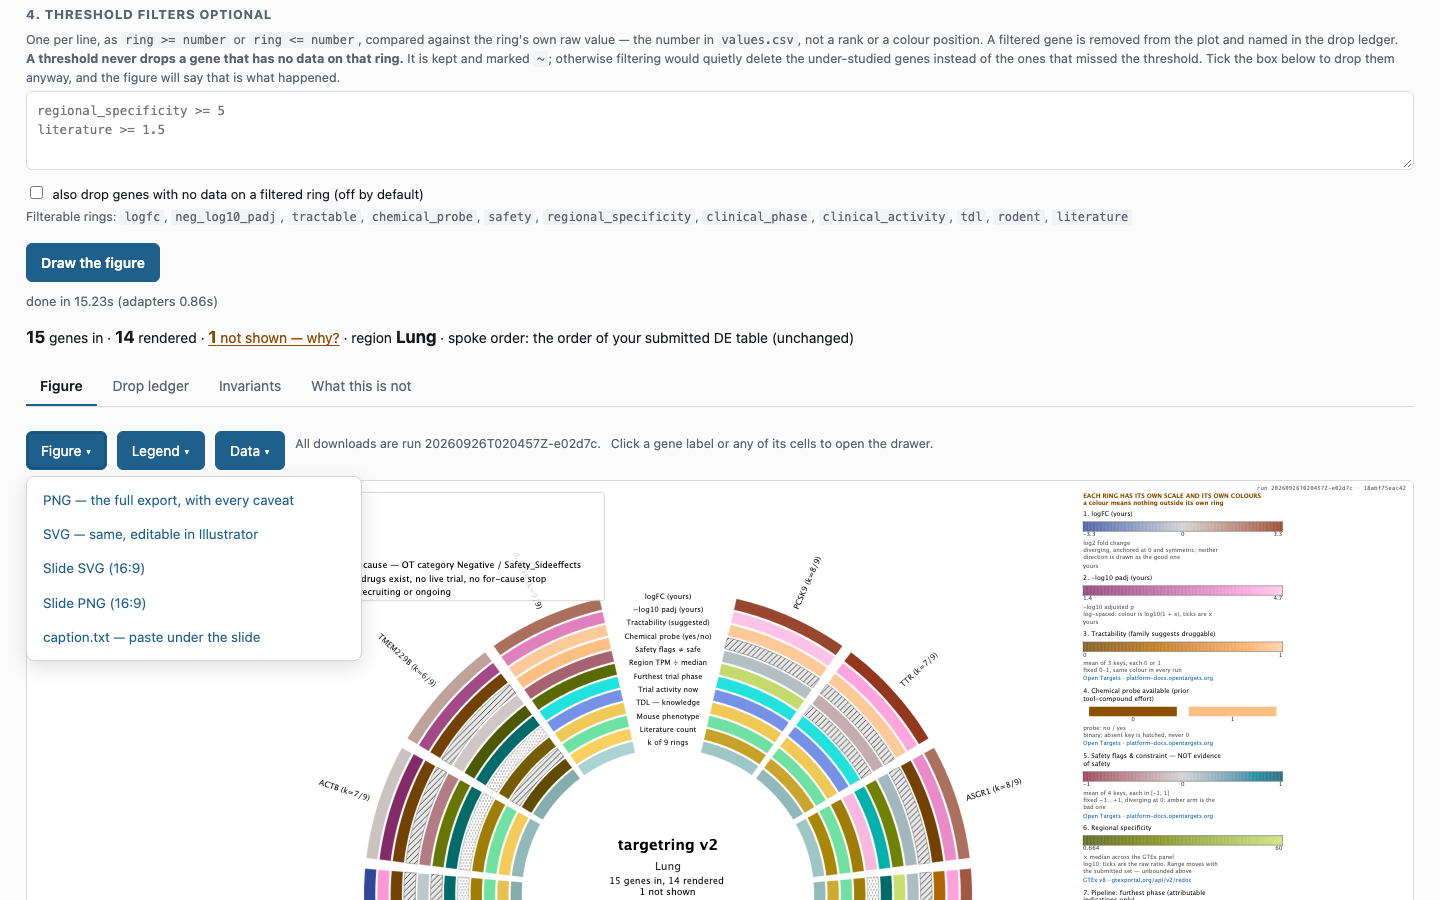
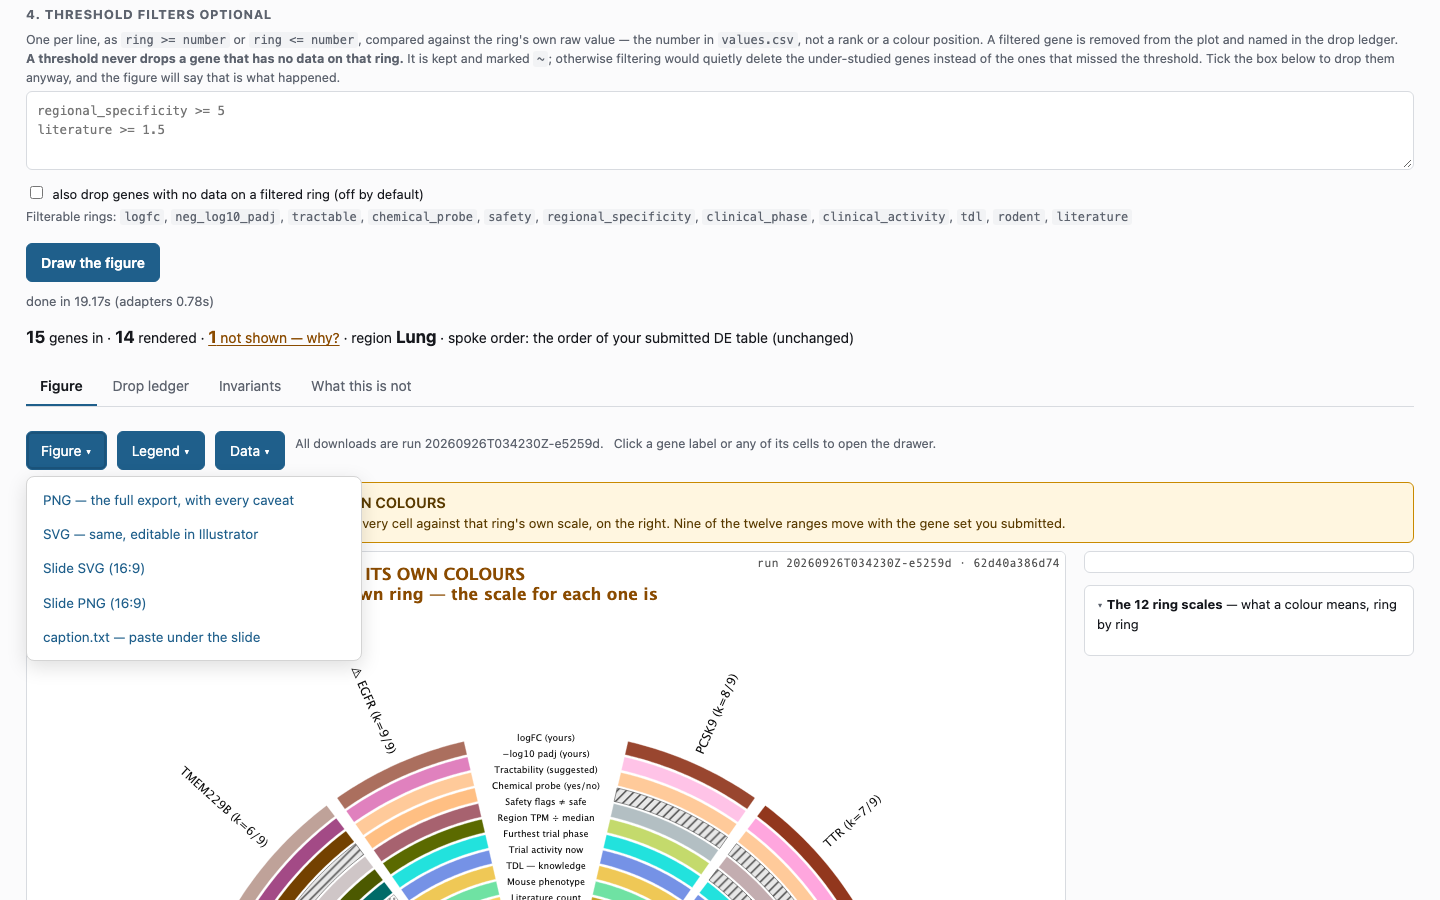
UX v3 round 1 re-review: A1 and A2 fixed and measured, A3 cannot meet the half-slide floor and says so
0 EXACT overlapping pairs on all four artefacts, from 5 on the slide. The app
render goes 148/149 strings under the 12 px floor to 15/41, and the fifteen are
three strings each duplicated on the page at or above it. The legend's dead
18.7% is spent (0.00% ink -> 9.11%) and its type is up throughout, and it still
clears 10 pt at half a slide nowhere -- 10 pt as seen needs 24 pt in a 16 in
file, so the floor and a twelve-scale legend on one canvas are incompatible.
Said rather than shrunk to hide, which is the clause round 1 wrote for it.

Both survive-rules hold, live and by assertion.

Two things this re-review found that round 1 did not, handed to round 2 rather
than fixed here: the figure is now taller than a 1440 x 900 viewport, and the
comparability sentence is on screen twice a centimetre apart. Both are A2's fix
producing a new instance of its own class of problem.

Also corrected: ux_v3_measure.py was fitting the app render to a 1388 px panel
that A2's fix reduced to 1040, and reported 0/41 under the floor where the live
DOM says 15/41.

diff --git a/docs/reviews/UX-v3-rounds.md b/docs/reviews/UX-v3-rounds.md
@@ -254,11 +254,210 @@ Applied, in this order. Nothing from round 2 or 3 was anticipated.
    banner over the figure. `assert_figure_states_the_minimum` still runs on the
    web layout — the sentence is still *in* the SVG, it is simply no longer the
    only place it appears.
-3. **A3 — the legend is three columns of four, and the caveats are headed
-   groups.** Type raised throughout; the dead 18.7% is what pays for it.
+3. **A3 — the legend is four columns of three, and the caveats are three
+   balanced columns along the bottom.** Type raised throughout; the dead 18.7%
+   is what pays for it.
+
+### What the fix turned out to need beyond the above
+
+Recorded because an interruption should not lose it, and because three of the
+four are the same shape: a name or a constant that stopped describing what it
+decided, and nothing checking that it still did.
+
+4. **`draw_key` had not meant "draw the scale column" since v2.6.** It decides
+   the provenance stamp's font size, and it is `False` on `slide` — which draws
+   a full column. Read as the layout question, it took the slide's scales away
+   and printed an 11 pt banner across its own spoke labels: thirteen tests red,
+   all of them the slide. Split into `stamp_size_small` and a new
+   `scales_in_svg`, which is `True` on both exported renders and `False` on
+   `web` alone, and defaults `True` so a layout added later carries its own
+   decode furniture unless it says otherwise.
+5. **The new overprint check then refused the web render.** The comparability
+   banner is top-left and the run-id stamp top-right; on a 19.5 in canvas that
+   is two corners with a continent between them, and at 9.6 in they met by
+   62 × 4 px. `_free_width_beside` measures the free width and wraps the banner
+   to it, rather than a constant that today's run id clears and a longer one
+   walks through.
+6. **The centre's y arithmetic was still in the file, dead.** Both
+   `_draw_centre` and `_draw_ordering_and_filters` computed positions that
+   `stack_centre_blocks` then overwrote. Left in, the file would have had two
+   layout models with the live one invisible, and the next person to adjust the
+   centre would have adjusted the other.
+7. **Ring 8's three states printed as `-1 / 0 / 1` in the new panel**, read off
+   the ring's numeric ticks — three colours that are off every ramp, labelled
+   with positions on one. COUNCIL V12 in HTML. Found by looking at the
+   screenshot, which is the argument for taking one per round.
+8. **The two survive-rules were not actually asserted.** §1's rule says "checked
+   by an assertion, not by care, from round 1 onward" and nothing checked them.
+   They are twenty-six new tests now, and they ask about *ancestry* in the
+   parsed page rather than for the presence of a string, because "is this behind
+   a click" is a question a grep answers wrongly.
+9. **The measurement instrument was measuring a width the app no longer has.**
+   `ux_v3_measure.py` fitted the app render to 1388 px; A2's own fix made it
+   1040. Corrected, not rebuilt — see §1.3 A2.
 
 ## 1.3 Re-review
 
-Below, after the work.
+Driven live at 1440 × 900 against the restarted server on `e7e5aea`
+(`GET /` → 200, `/api/regions` → the GTEx panel, `app.js` served with
+`renderDecode` in it before any screenshot). Evidence:
+`logs/ux-v3-r1fix-typesizes.txt`, `logs/ux-v3-r1fix-overlap.txt`,
+`logs/ux-v3-r1fix-live.json`, `logs/v31-matrix.txt`, `r1-1-*` … `r1-5-*`.
+
+**516 tests pass** (490 at `62d40a3`; 26 new). 7/7 invariants on all seven cold
+runs. Every existing assertion unchanged and passing: the seven invariants,
+`assert_no_text_over_the_rings`, `assert_centre_fits_the_hole`,
+`assert_text_within_canvas`, `assert_wedge_labels_fit`,
+`assert_legend_panels_do_not_overlap`, `assert_renders_agree`,
+`assert_artefacts_are_their_own_layout`, `assert_figure_states_the_minimum`,
+`assert_the_id_rule_is_kept`, `assert_greyscale_disjoint`,
+`assert_ramp_luminance_is_monotone`, `assert_rings_are_distinguishable`.
+Nothing relaxed, nothing deleted.
+
+### A1 — fixed, and it was not ten minutes
+
+**0 EXACT overlapping pairs on all four artefacts**, against five on
+`figure-slide.svg` (`logs/ux-v3-r1fix-overlap.txt`):
+
+| artefact | text runs | EXACT pairs, before → after |
+|---|---|---|
+| `figure.svg` | 158 | 0 → 0 |
+| `figure-web.svg` | 41 | 0 → 0 |
+| `figure-slide.svg` | 115 | **5 → 0** |
+| `legend.svg` | 160 | 0 → 0 |
+
+The eight `aabb-only` hits remaining on the slide are rotated spoke labels
+against the scale column's source lines; a label at 37° has an axis-aligned box
+far larger than its ink, which is why the instrument says which kind a hit is,
+and `assert_no_text_over_the_rings` does the real geometry on those and passes.
+
+§v2.6 *Still open* 2 closes. The estimate in it was wrong in the way that
+matters: the collision was a spacing bug and the *fix* was ten minutes, but the
+thing that let it live through four releases was that **no check compared a
+drawn string with another drawn string**, and that is what took the time.
+`assert_text_does_not_overprint_text` refused two renders during this work —
+the web one, once the canvas shrank and the corner banner met the run-id stamp,
+and the three-gene audit one, where the footer grows under the scale column.
+Neither would have been found by eye at fourteen genes.
+
+### A2 — fixed, with three strings left under the floor on purpose
+
+Measured live at 1440 × 900 and confirmed against the file, which is where the
+round-1 numbers came from too:
+
+| | round 1 | now |
+|---|---|---|
+| figure panel | 1388 px | **1040 px** (the decode panel takes 330 + 18) |
+| canvas | 19.5 × 12.2 in | **9.6 × 10.6 in** |
+| scale, file pt → CSS px | 0.9886 | **1.5046** |
+| SVG strings under 12.0 px | **148 of 149** | **15 of 41** |
+| the comparability sentence | 6.14 px, in a corner | **14.5 px** HTML band + 16.55 px on the render |
+| the four cell states | 8.90 px, in a 570 px box | **13 px** HTML, always open |
+| ring scale ticks | 5.76 px | **12.0 px** |
+| ring scale titles | 6.47 px | **13 px** |
+
+The fifteen still under the floor are three strings, and each is on the page
+again at or above it — which is the only reason they are acceptable:
+
+* **the twelve wedge ring names at 9.07 px.** Geometry-bound, not chosen: at
+  twelve rings the binding budget is the band's *height*, so widening the gap
+  buys nothing and `assert_wedge_labels_fit` refuses it — v2.7's finding,
+  arriving on a third layout. All twelve are numbered and named at 13 px in the
+  panel, and the SVG keeps its v2.7.1 tooltips.
+* **the spoke-order note at 10.23 px.** The counts line above the figure says
+  it at 14 px.
+* **`the 1 not shown are named in the Drop ledger tab` at 11.28 px.** The tab
+  itself is 14 px and two inches away.
+
+**A correction to round 1's own instrument, which flattered this result before
+it was caught.** `ux_v3_measure.py` fitted `figure-web.svg` to 1388 px, the
+width the figure had when it owned the whole column. It does not any more. Read
+at 1388 the script said *0 of 41 under the floor*; the live DOM says 1040 px and
+*15 of 41*. The constant is corrected and split in two, because only one of the
+two measurements moved — the export opened full width still gets 1388. An
+instrument that reports the app 33% more legible than it is, is wrong in the one
+direction this review cannot afford.
+
+**Both must-survive items hold, and by assertion.**
+`TestUXv3TheTwoThingsThatSurviveWhateverAnimatesAway` parses the page and asks
+about *ancestry*, not about the presence of a string: neither `#comparability`
+nor `#cell-states` is inside a `<details>`, the sentence precedes
+`.figure-row` in document order, and the one panel that may animate names its
+contents and its count in the closed state. Verified live as well as
+statically: with `#scales` collapsed, both survivors are still on screen and
+the reopen control is visible and reads *"The 12 ring scales — what a colour
+means, ring by ring"*.
+
+### A3 — improved by a long way, and the 10 pt floor is **not met at half a slide**
+
+This is the one finding whose stated target was not reached, and it was not
+reachable. Round 1 wrote *"every size raised until nothing on the legend is
+under 10 pt at half a slide — or, where a string genuinely cannot make that,
+say which and why rather than shrink it."* This is that clause being used.
+
+| | v3.0 | now |
+|---|---|---|
+| ring names in the file | 9.00 pt | **11.04 pt** |
+| the comparability sentence | 8.55 pt, under the names it qualifies | **15.00 pt, leading** |
+| the caveat block | 6.40 pt, 22 unbroken lines | **9.40 pt, three balanced columns** |
+| ink on the canvas | 9.3% | **11.48%** |
+| the 616 × 297 px dead block | **0.00% ink** | **9.11% ink** |
+| ink bounding box, bottom | row 875 of 990 | **row 977 of 990** |
+| clearing 10 pt at a full slide | 2 of 139 | **5 of 160** |
+| clearing 10 pt at half a slide | 0 of 139 | **0 of 160** |
+
+Why no string can make it: half a slide is 6.67 in wide, so a 16 in canvas is
+scaled 0.4167 and **10.0 pt as seen requires 24.0 pt in the file**. The legend
+carries twelve scales with their own ramps, ticks, units and source lines plus
+the cell states and the whole caveat block; at 24 pt the ring titles alone would
+not fit on 16 × 9, never mind the rest. The arithmetic says the half-slide floor
+and a twelve-scale legend on one 16:9 canvas are incompatible, and no amount of
+whitespace-spending changes it — the space was spent, and it bought 2.4 pt.
+
+So the honest statement, and it goes on the artefact rather than only here:
+**the legend is a full-slide artefact.** At a full slide its largest four
+strings clear the floor and its ring names read at 9.20 pt, against 7.50 pt in
+v3.0 and 3.75 pt at the half-slide size round 1 measured. Whether that is
+acceptable or whether the legend should become *two* slides is Puck's call and
+it is in §v3.1's *What you need to decide*. Round 2 does not get to quietly
+shrink something to close it.
+
+### The B items, and what round 1 did to them incidentally
+
+Round 1 fixed **B4** as a side effect of A2 rather than by intent — the
+cell-state box no longer mixes two taxonomies, because the panel draws the four
+states under one heading and ring 8's three under their own, separated by a
+rule. It also **introduced and then fixed a defect of its own inside B4's
+territory**: the panel's first version printed ring 8's three states as
+`-1 / 0 / 1`, read off the ring's numeric tick labels, beside three colours that
+are not positions on any ramp. That is COUNCIL V12 exactly, arriving in HTML;
+`scale_rows` carries the names now, off the same sort as the colours so a colour
+cannot be paired with the wrong state.
+
+**B1, B2, B3, B5 and B6 are untouched, deliberately.** They are round 2's and
+round 3's, and mixing them in here would remove the only thing that makes three
+rounds a check on each other.
+
+### What this re-review found that round 1 did not, and hands to round 2
+
+Two things, and the first is the more serious. Both are recorded here as the
+opening of round 2 rather than fixed now.
+
+1. **The figure no longer fits in one laptop viewport.** A2 traded canvas width
+   for type size and the canvas is now taller than wide — 9.6 × 10.6 in at
+   1040 px is 1149 px tall against a 900 px viewport, so
+   `r1-3-figure-viewport.png` shows the top two thirds of the circle and the
+   bottom third is below the fold. Round 1 measured what a reader *can read* and
+   did not measure what a reader *can see at once*. This is A2's fix producing
+   a new instance of the same class of problem, which is the best possible
+   argument for the rounds existing.
+2. **The comparability sentence is now on screen twice, ten millimetres apart** —
+   once in the amber HTML band and once at 16.55 px in the render's top-left
+   corner. Both were added by the same fix, for the same rule, from opposite
+   directions: the band because the page must state it, the corner because
+   `assert_figure_states_the_minimum` will not let the circle be drawn without
+   it. Neither is wrong; together they are a reader wondering which one is the
+   real one, and the UX-v1 review's own noise list says the counts appearing
+   three times was a defect for the same reason.
 
 ---

diff --git a/docs/V2-REPORT.md b/docs/V2-REPORT.md
@@ -3276,3 +3276,148 @@ not tried to pre-empt it.
    own file.** *Still open 12.* This is the one I would most like an answer to.
 2. **Whether the legend and slide should be generated on demand.** *Still open 11.*
 3. Everything already in §6 and §v2.1–§v2.9, unchanged.
+
+---
+
+## v3.1 — UX v3 round 1: the slide stops printing on itself, the app stops being 6 px
+
+Wren II, 2026-09-25. Local only, nothing deployed, nothing pushed, no money
+spent (LLM triage still unbuilt, $5.00 of $5.00 unspent), `~/ytpt` untouched,
+the OpenClaw gateway not restarted. Three commits and this section: the review
+(`62d40a3`), the fix (`e7e5aea`), the re-review. The dev server on :8811 was
+restarted onto the fix and confirmed with a live request before any screenshot.
+
+Puck's words: *"have ux panel review. do 3 rounds of review the visual once
+finished with current work, fix review fix. consider usability. readability of
+text. font size. button placement. legend font size and if there is overlap.
+annimations to hide non-neccissary info."*
+
+**Tests: 516 passed** (490 before; 26 new). 7/7 invariants on all seven cold
+runs (`logs/v31-matrix.txt`). Full findings in
+`docs/reviews/UX-v3-rounds.md` §1.
+
+### Read this first: what is still broken
+
+**1. The legend does not meet the 10 pt floor at half a slide, and it cannot.**
+Half a slide scales a 16 in canvas by 0.4167, so 10.0 pt as seen needs **24.0 pt
+in the file** — and the legend carries twelve scales with ramps, ticks, units
+and source lines, plus the cell states and the whole caveat block. Everything
+went up (ring names 9.00 → 11.04 pt, the caveat block 6.40 → 9.40, the
+comparability sentence 8.55 → 15.00 and it leads now instead of sitting under
+the ring names it qualifies) and the dead 18.7% of canvas was spent — 0.00% ink
+in that block became 9.11% — and that bought 2.4 pt. **The legend is a
+full-slide artefact.** Whether it should be two slides is yours to say.
+
+**2. A2's fix made the figure taller than a laptop viewport.** The canvas traded
+width for type size and is now 9.6 × 10.6 in; at 1040 px wide that is 1149 px
+tall against a 900 px viewport, so the bottom third of the circle is below the
+fold. Round 1 measured what a reader can read and not what a reader can see at
+once. It is round 2's, formally, and it is the clearest thing the three-round
+shape has bought so far.
+
+**3. The comparability sentence is on screen twice, a centimetre apart.** The
+amber HTML band above the figure and the render's own top-left corner, both
+added by this fix for the same rule from opposite directions. Round 2's.
+
+**4. One of my own instruments was wrong in the flattering direction.**
+`ux_v3_measure.py` fitted the app render to a 1388 px panel — the width it had
+when the figure owned the whole column. A2's fix gave 330 px of that row to the
+decode panel. Read at 1388 the script reported **0 of 41 strings under the
+floor**; the live DOM says 1040 px and **15 of 41**. Corrected and split in two,
+because only one of the two measurements moved. Worth saying plainly: for about
+an hour this work had a measurement saying it was done.
+
+### What the three findings were, and what each fix was
+
+| # | finding | fix |
+|---|---|---|
+| **A1** | `figure-slide.svg` printed text over text in five places, and had since v2.6 — `Lung` struck through `15 genes in, 14 rendered`, ring 12's scale lines inside the slide's caveat line | the centre block is stacked by measured line height instead of placed at 0.575 / 0.542 / 0.512 with only the font sizes scaled by `centre_scale` 1.15; `assert_text_does_not_overprint_text` is new. **0 EXACT overlapping pairs on all four artefacts**, from 5 |
+| **A2** | 148 of the app figure's 149 strings were under 12.0 CSS px on a 1440 × 900 laptop, including both must-survive items | the scale column and the cell-state box leave the app's SVG and the page draws them as HTML at 12–13 px from `/api/run/{id}/scales`; the canvas shrinks 19.5 × 12.2 → 9.6 × 10.6 in, so file pt → CSS px goes 0.9886 → **1.5046**. **15 of 41 under the floor**, and each of the fifteen is on the page again at or above it |
+| **A3** | the legend was the smallest type in the set — 139 of 139 runs under 10 pt at half a slide, ring names at 3.75 pt — while 18.7% of its own canvas held no ink | four columns of three, caveats in three balanced columns along the bottom, type raised throughout. See *Read this first* 1 |
+
+**Overlap, which Puck asked about by name:** there was none on the legend (0 of
+139 pairs, measured pairwise, and the legend has no rotated text so that result
+is exact) and five on the slide. The legend's problem was type size and wasted
+space; the slide's was a spacing bug that no assertion was looking for.
+
+### The two things an animation may never take away
+
+Puck asked for animations that hide non-essential information, and §v3.0 made
+that free: nothing hidden in the browser reaches `figure.svg`, `figure-slide.*`,
+`legend.*` or `caption.txt`. The rule is in `docs/reviews/UX-v3-rounds.md` and
+holds unchanged through rounds 2 and 3:
+
+1. the **four cell-state legend** stays reachable with no dead end;
+2. **"each ring has its own scale; colours do not compare across rings"** is
+   never behind a click.
+
+`#cell-states` has no toggle at all and `#comparability` is a full-width band
+above the figure. What animates is `#scales`, the twelve-row reference panel,
+on a `<details>` — keyboard, Escape and `prefers-reduced-motion` for free, the
+same argument v3.0 made for the download menus. Both rules are **twenty-six
+tests** that parse the page and ask about ancestry, not about the presence of a
+string: `TestUXv3TheTwoThingsThatSurviveWhateverAnimatesAway`. §1's promise that
+they would be checked by assertion rather than by care was not kept by the
+staged work; it is now.
+
+### What the fix needed beyond what round 1 had planned
+
+The interesting three are all the same shape — a name that stopped describing
+what it decided, with nothing checking that it still did.
+
+* **`draw_key` had not meant "draw the scale column" since v2.6.** It decides
+  the provenance stamp's font size, and it is `False` on `slide`, which draws a
+  full column. Read as the layout question it took the slide's twelve scales
+  away and printed an 11 pt banner across its own spoke labels: thirteen tests
+  red, every one of them the slide. Split into `stamp_size_small` and a new
+  `scales_in_svg` that defaults `True`.
+* **The new overprint check then refused the web render**, the banner 62 × 4 px
+  into the run-id stamp once the canvas was 9.6 in wide rather than 19.5.
+  `_free_width_beside` measures instead of assuming.
+* **The centre's y arithmetic was still in the file and dead**, overwritten by
+  the stack. Two layout models with the live one invisible is what the next
+  person tunes the wrong half of.
+* **Ring 8's three states printed as `-1 / 0 / 1`** in the new panel, read off
+  the ring's numeric ticks — COUNCIL V12 arriving in HTML, three colours off
+  every ramp labelled with positions on one. Found by looking at the round-1
+  screenshot.
+
+### Verification
+
+* **516 tests** (490 before). Twenty-six new across three classes, including the
+  negatives: two strings at one point must fail the overprint check, the four
+  cell states must fail if they are put inside a `<details>`, the categorical
+  ring must fail if the panel goes back to reading its numeric ticks.
+* **7/7 invariants on all seven cold runs** (`logs/v31-matrix.txt`), counts
+  unchanged: 15 in / 14 / 1 on the council list, 16 in / 7 / 9 on the broken
+  fixture, 15 in / 7 / 8 filtered.
+* Every existing assertion unchanged and passing —
+  `assert_no_text_over_the_rings`, `assert_centre_fits_the_hole`,
+  `assert_text_within_canvas`, `assert_wedge_labels_fit`,
+  `assert_legend_panels_do_not_overlap`, `assert_renders_agree`,
+  `assert_artefacts_are_their_own_layout`, `assert_figure_states_the_minimum`,
+  `assert_the_id_rule_is_kept`, the greyscale disjointness check and the seven
+  invariants. **No invariant relaxed, no test deleted, no assertion weakened.**
+  Two assertions refused my own work during this and both refusals were correct.
+* Round-1 screenshots at 1440 × 900 in `docs/reviews/ux-v3-shots/r1-*`, on a
+  restarted server with the browser cache disabled.
+
+### Still open, added to §v3.0
+
+14. **The legend cannot meet the half-slide floor.** *Read this first* 1.
+15. **The app figure is taller than a 1440 × 900 viewport.** *Read this first*
+    2. Round 2's.
+16. **The comparability sentence appears twice on the app screen.** *Read this
+    first* 3. Round 2's.
+17. **The slide render's own type is under the 10 pt floor at a full slide** —
+    11.5 pt in a 16 × 9 file is 9.58 pt on a 13.33 in slide, so 114 of its 115
+    strings miss by a fraction. Measured during this round, not fixed in it: it
+    is a different finding from A1 and it belongs to a later round.
+
+### What you need to decide
+
+1. **Whether the legend should become two slides.** *Read this first* 1. One
+   16:9 canvas and twelve scales cannot both meet the half-slide floor.
+2. Everything already in §6 and §v2.1–§v3.0, unchanged: licensing before any
+   workplace use, the Delta E gate, the `neg_log10_padj` log domain, the muted
+   gauge, whether the slide should drop its scale column.
